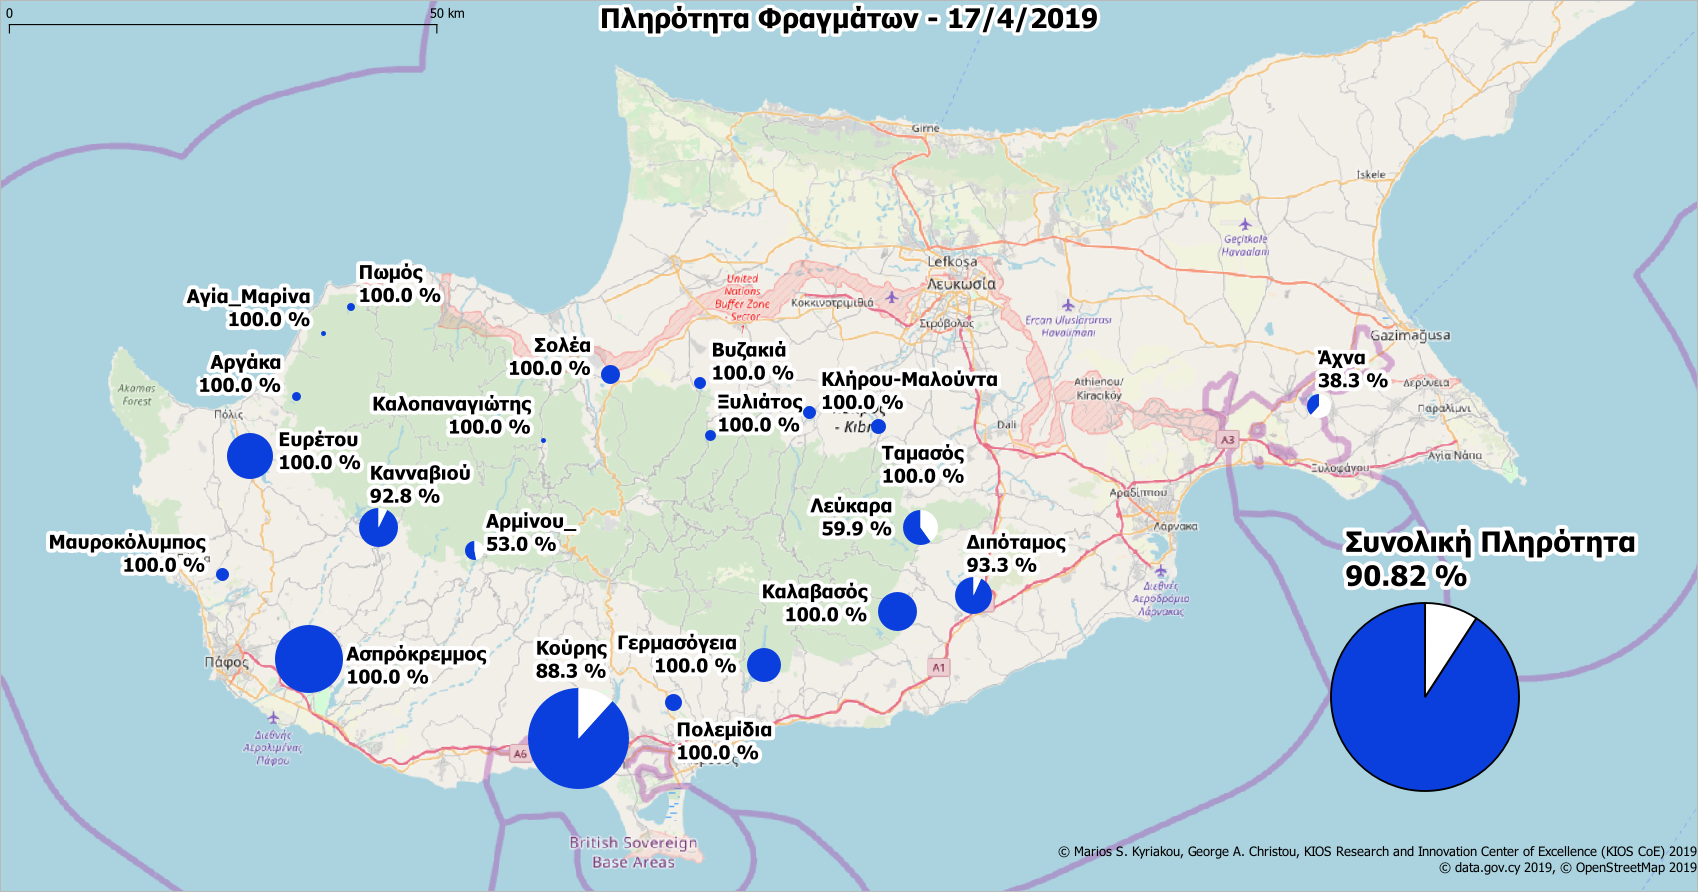
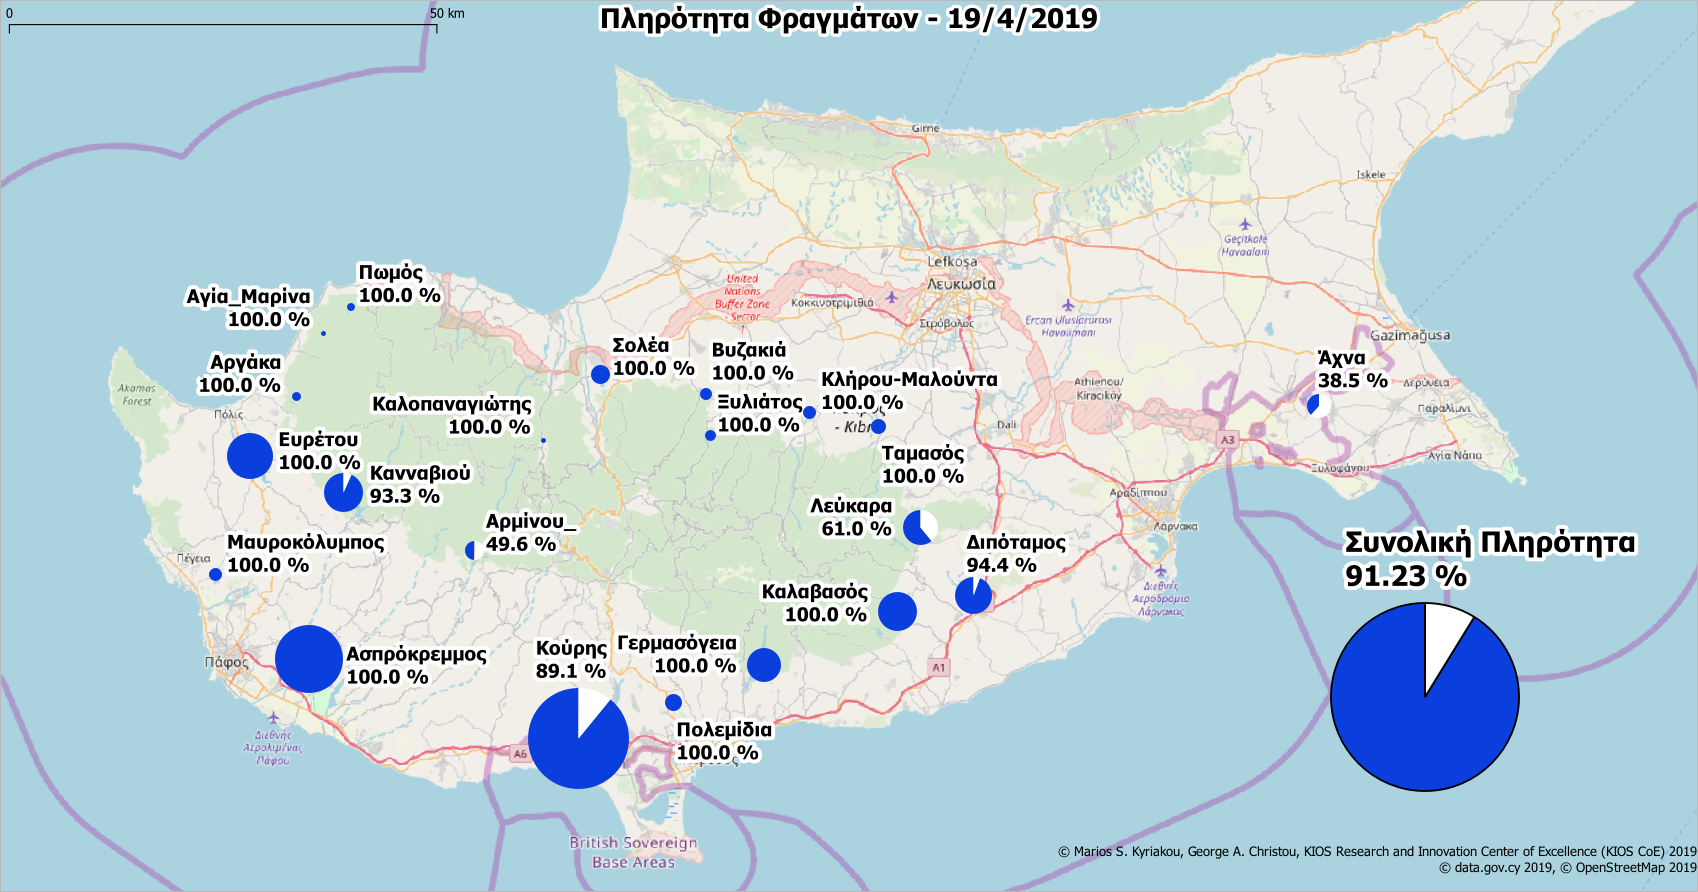
update

diff --git a/dams.html b/dams.html
@@ -11,7 +11,7 @@
          1px  1px 7px WHITE;
     }
     }
-    </style><p><b>Ημερομηνία ανανέωσης δεδομένων: 17/4/2019<p><font color="#0000FF">Η συνολική πληρότητα στα φράγματα είναι 90.82%</font>.<p>Υπάρχουν συνολικά <font color="#0000FF">15</font> φράγματα με πληρότητα <font color="#0000FF">100%</font>.<p>Υπάρχουν <font color="#0000FF">20</font> φράγματα με πληρότητα πάνω από <font color="#0000FF">50%</font>.</b><p><b>Υπάρχουν δεδομένα για 21 φράγματα. Συνολικά υπάρχουν 108 φράγματα. <b><p><p><p>* Ε.Κ.Μ. - Εκατομμύρια Kυβικά  Mέτρα.<table width="444">
+    </style><p><b>Ημερομηνία ανανέωσης δεδομένων: 19/4/2019<p><font color="#0000FF">Η συνολική πληρότητα στα φράγματα είναι 91.23%</font>.<p>Υπάρχουν συνολικά <font color="#0000FF">15</font> φράγματα με πληρότητα <font color="#0000FF">100%</font>.<p>Υπάρχουν <font color="#0000FF">19</font> φράγματα με πληρότητα πάνω από <font color="#0000FF">50%</font>.</b><p><b>Υπάρχουν δεδομένα για 21 φράγματα. Συνολικά υπάρχουν 108 φράγματα. <b><p><p><p>* Ε.Κ.Μ. - Εκατομμύρια Kυβικά  Mέτρα.<table width="444">
     <tbody>
     <tr>
     <th width="2"><b></b></th>
@@ -19,7 +19,7 @@
     <th width="60"><b>Χωρητικότητα (Ε.Κ.Μ.)</b></th>
     <th width="60"><b>Σημερινή (Ε.Κ.Μ.)</b></th>
     <th width="60"><b> Σημερινή Πληρότητα (%)</b></th>
-    </tr><tr><td bgcolor=#48AC4E class=border-white>1</td><td bgcolor=#48AC4E class=border-white>Κούρης</td><td bgcolor=#48AC4E class=border-white>115.0</td><td bgcolor=#48AC4E class=border-white>101.497</td><td bgcolor=#48AC4E class=border-white>88.3</td></tr><tr><tr><td bgcolor=#1A9641 class=border-white>2</td><td bgcolor=#1A9641 class=border-white>Ασπρόκρεμμος</td><td bgcolor=#1A9641 class=border-white>52.375</td><td bgcolor=#1A9641 class=border-white>52.375</td><td bgcolor=#1A9641 class=border-white>100.0</td></tr><tr><tr><td bgcolor=#1A9641 class=border-white>3</td><td bgcolor=#1A9641 class=border-white>Ευρέτου</td><td bgcolor=#1A9641 class=border-white>24.0</td><td bgcolor=#1A9641 class=border-white>24.0</td><td bgcolor=#1A9641 class=border-white>100.0</td></tr><tr><tr><td bgcolor=#1A9641 class=border-white>4</td><td bgcolor=#1A9641 class=border-white>Κανναβιού</td><td bgcolor=#1A9641 class=border-white>17.168</td><td bgcolor=#1A9641 class=border-white>15.94</td><td bgcolor=#1A9641 class=border-white>92.8</td></tr><tr><tr><td bgcolor=#1A9641 class=border-white>5</td><td bgcolor=#1A9641 class=border-white>Καλαβασός</td><td bgcolor=#1A9641 class=border-white>17.1</td><td bgcolor=#1A9641 class=border-white>17.1</td><td bgcolor=#1A9641 class=border-white>100.0</td></tr><tr><tr><td bgcolor=#1A9641 class=border-white>6</td><td bgcolor=#1A9641 class=border-white>Διπόταμος</td><td bgcolor=#1A9641 class=border-white>15.5</td><td bgcolor=#1A9641 class=border-white>14.465</td><td bgcolor=#1A9641 class=border-white>93.3</td></tr><tr><tr><td bgcolor=#D2EC95 class=border-white>7</td><td bgcolor=#D2EC95 class=border-white>Λεύκαρα</td><td bgcolor=#D2EC95 class=border-white>13.85</td><td bgcolor=#D2EC95 class=border-white>8.302</td><td bgcolor=#D2EC95 class=border-white>59.9</td></tr><tr><tr><td bgcolor=#1A9641 class=border-white>8</td><td bgcolor=#1A9641 class=border-white>Γερμασόγεια</td><td bgcolor=#1A9641 class=border-white>13.5</td><td bgcolor=#1A9641 class=border-white>13.5</td><td bgcolor=#1A9641 class=border-white>100.0</td></tr><tr><tr><td bgcolor=#FED690 class=border-white>9</td><td bgcolor=#FED690 class=border-white>Άχνα</td><td bgcolor=#FED690 class=border-white>6.8</td><td bgcolor=#FED690 class=border-white>2.603</td><td bgcolor=#FED690 class=border-white>38.3</td></tr><tr><tr><td bgcolor=#1A9641 class=border-white>10</td><td bgcolor=#1A9641 class=border-white>Σολέα</td><td bgcolor=#1A9641 class=border-white>4.454</td><td bgcolor=#1A9641 class=border-white>4.454</td><td bgcolor=#1A9641 class=border-white>100.0</td></tr><tr><tr><td bgcolor=#D2EC95 class=border-white>11</td><td bgcolor=#D2EC95 class=border-white>Αρμίνου_</td><td bgcolor=#D2EC95 class=border-white>4.3</td><td bgcolor=#D2EC95 class=border-white>2.277</td><td bgcolor=#D2EC95 class=border-white>53.0</td></tr><tr><tr><td bgcolor=#1A9641 class=border-white>12</td><td bgcolor=#1A9641 class=border-white>Πολεμίδια</td><td bgcolor=#1A9641 class=border-white>3.4</td><td bgcolor=#1A9641 class=border-white>3.4</td><td bgcolor=#1A9641 class=border-white>100.0</td></tr><tr><tr><td bgcolor=#1A9641 class=border-white>13</td><td bgcolor=#1A9641 class=border-white>Ταμασός</td><td bgcolor=#1A9641 class=border-white>2.8</td><td bgcolor=#1A9641 class=border-white>2.8</td><td bgcolor=#1A9641 class=border-white>100.0</td></tr><tr><tr><td bgcolor=#1A9641 class=border-white>14</td><td bgcolor=#1A9641 class=border-white>Μαυροκόλυμπος</td><td bgcolor=#1A9641 class=border-white>2.18</td><td bgcolor=#1A9641 class=border-white>2.18</td><td bgcolor=#1A9641 class=border-white>100.0</td></tr><tr><tr><td bgcolor=#1A9641 class=border-white>15</td><td bgcolor=#1A9641 class=border-white>Κλήρου-Μαλούντα</td><td bgcolor=#1A9641 class=border-white>2.0</td><td bgcolor=#1A9641 class=border-white>2.0</td><td bgcolor=#1A9641 class=border-white>100.0</td></tr><tr><tr><td bgcolor=#1A9641 class=border-white>16</td><td bgcolor=#1A9641 class=border-white>Βυζακιά</td><td bgcolor=#1A9641 class=border-white>1.69</td><td bgcolor=#1A9641 class=border-white>1.69</td><td bgcolor=#1A9641 class=border-white>100.0</td></tr><tr><tr><td bgcolor=#1A9641 class=border-white>17</td><td bgcolor=#1A9641 class=border-white>Ξυλιάτος</td><td bgcolor=#1A9641 class=border-white>1.43</td><td bgcolor=#1A9641 class=border-white>1.43</td><td bgcolor=#1A9641 class=border-white>100.0</td></tr><tr><tr><td bgcolor=#1A9641 class=border-white>18</td><td bgcolor=#1A9641 class=border-white>Αργάκα</td><td bgcolor=#1A9641 class=border-white>0.99</td><td bgcolor=#1A9641 class=border-white>0.99</td><td bgcolor=#1A9641 class=border-white>100.0</td></tr><tr><tr><td bgcolor=#1A9641 class=border-white>19</td><td bgcolor=#1A9641 class=border-white>Πωμός</td><td bgcolor=#1A9641 class=border-white>0.86</td><td bgcolor=#1A9641 class=border-white>0.86</td><td bgcolor=#1A9641 class=border-white>100.0</td></tr><tr><tr><td bgcolor=#1A9641 class=border-white>20</td><td bgcolor=#1A9641 class=border-white>Καλοπαναγιώτης</td><td bgcolor=#1A9641 class=border-white>0.363</td><td bgcolor=#1A9641 class=border-white>0.363</td><td bgcolor=#1A9641 class=border-white>100.0</td></tr><tr><tr><td bgcolor=#1A9641 class=border-white>21</td><td bgcolor=#1A9641 class=border-white>Αγία_Μαρίνα</td><td bgcolor=#1A9641 class=border-white>0.298</td><td bgcolor=#1A9641 class=border-white>0.298</td><td bgcolor=#1A9641 class=border-white>100.0</td></tr><tr>
+    </tr><tr><td bgcolor=#48AC4E class=border-white>1</td><td bgcolor=#48AC4E class=border-white>Κούρης</td><td bgcolor=#48AC4E class=border-white>115.0</td><td bgcolor=#48AC4E class=border-white>102.452</td><td bgcolor=#48AC4E class=border-white>89.1</td></tr><tr><tr><td bgcolor=#1A9641 class=border-white>2</td><td bgcolor=#1A9641 class=border-white>Ασπρόκρεμμος</td><td bgcolor=#1A9641 class=border-white>52.375</td><td bgcolor=#1A9641 class=border-white>52.375</td><td bgcolor=#1A9641 class=border-white>100.0</td></tr><tr><tr><td bgcolor=#1A9641 class=border-white>3</td><td bgcolor=#1A9641 class=border-white>Ευρέτου</td><td bgcolor=#1A9641 class=border-white>24.0</td><td bgcolor=#1A9641 class=border-white>24.0</td><td bgcolor=#1A9641 class=border-white>100.0</td></tr><tr><tr><td bgcolor=#1A9641 class=border-white>4</td><td bgcolor=#1A9641 class=border-white>Κανναβιού</td><td bgcolor=#1A9641 class=border-white>17.168</td><td bgcolor=#1A9641 class=border-white>16.019</td><td bgcolor=#1A9641 class=border-white>93.3</td></tr><tr><tr><td bgcolor=#1A9641 class=border-white>5</td><td bgcolor=#1A9641 class=border-white>Καλαβασός</td><td bgcolor=#1A9641 class=border-white>17.1</td><td bgcolor=#1A9641 class=border-white>17.1</td><td bgcolor=#1A9641 class=border-white>100.0</td></tr><tr><tr><td bgcolor=#1A9641 class=border-white>6</td><td bgcolor=#1A9641 class=border-white>Διπόταμος</td><td bgcolor=#1A9641 class=border-white>15.5</td><td bgcolor=#1A9641 class=border-white>14.629</td><td bgcolor=#1A9641 class=border-white>94.4</td></tr><tr><tr><td bgcolor=#A6D96A class=border-white>7</td><td bgcolor=#A6D96A class=border-white>Λεύκαρα</td><td bgcolor=#A6D96A class=border-white>13.85</td><td bgcolor=#A6D96A class=border-white>8.442</td><td bgcolor=#A6D96A class=border-white>61.0</td></tr><tr><tr><td bgcolor=#1A9641 class=border-white>8</td><td bgcolor=#1A9641 class=border-white>Γερμασόγεια</td><td bgcolor=#1A9641 class=border-white>13.5</td><td bgcolor=#1A9641 class=border-white>13.5</td><td bgcolor=#1A9641 class=border-white>100.0</td></tr><tr><tr><td bgcolor=#FED690 class=border-white>9</td><td bgcolor=#FED690 class=border-white>Άχνα</td><td bgcolor=#FED690 class=border-white>6.8</td><td bgcolor=#FED690 class=border-white>2.616</td><td bgcolor=#FED690 class=border-white>38.5</td></tr><tr><tr><td bgcolor=#1A9641 class=border-white>10</td><td bgcolor=#1A9641 class=border-white>Σολέα</td><td bgcolor=#1A9641 class=border-white>4.454</td><td bgcolor=#1A9641 class=border-white>4.454</td><td bgcolor=#1A9641 class=border-white>100.0</td></tr><tr><tr><td bgcolor=#FFFFC0 class=border-white>11</td><td bgcolor=#FFFFC0 class=border-white>Αρμίνου_</td><td bgcolor=#FFFFC0 class=border-white>4.3</td><td bgcolor=#FFFFC0 class=border-white>2.134</td><td bgcolor=#FFFFC0 class=border-white>49.6</td></tr><tr><tr><td bgcolor=#1A9641 class=border-white>12</td><td bgcolor=#1A9641 class=border-white>Πολεμίδια</td><td bgcolor=#1A9641 class=border-white>3.4</td><td bgcolor=#1A9641 class=border-white>3.4</td><td bgcolor=#1A9641 class=border-white>100.0</td></tr><tr><tr><td bgcolor=#1A9641 class=border-white>13</td><td bgcolor=#1A9641 class=border-white>Ταμασός</td><td bgcolor=#1A9641 class=border-white>2.8</td><td bgcolor=#1A9641 class=border-white>2.8</td><td bgcolor=#1A9641 class=border-white>100.0</td></tr><tr><tr><td bgcolor=#1A9641 class=border-white>14</td><td bgcolor=#1A9641 class=border-white>Μαυροκόλυμπος</td><td bgcolor=#1A9641 class=border-white>2.18</td><td bgcolor=#1A9641 class=border-white>2.18</td><td bgcolor=#1A9641 class=border-white>100.0</td></tr><tr><tr><td bgcolor=#1A9641 class=border-white>15</td><td bgcolor=#1A9641 class=border-white>Κλήρου-Μαλούντα</td><td bgcolor=#1A9641 class=border-white>2.0</td><td bgcolor=#1A9641 class=border-white>2.0</td><td bgcolor=#1A9641 class=border-white>100.0</td></tr><tr><tr><td bgcolor=#1A9641 class=border-white>16</td><td bgcolor=#1A9641 class=border-white>Βυζακιά</td><td bgcolor=#1A9641 class=border-white>1.69</td><td bgcolor=#1A9641 class=border-white>1.69</td><td bgcolor=#1A9641 class=border-white>100.0</td></tr><tr><tr><td bgcolor=#1A9641 class=border-white>17</td><td bgcolor=#1A9641 class=border-white>Ξυλιάτος</td><td bgcolor=#1A9641 class=border-white>1.43</td><td bgcolor=#1A9641 class=border-white>1.43</td><td bgcolor=#1A9641 class=border-white>100.0</td></tr><tr><tr><td bgcolor=#1A9641 class=border-white>18</td><td bgcolor=#1A9641 class=border-white>Αργάκα</td><td bgcolor=#1A9641 class=border-white>0.99</td><td bgcolor=#1A9641 class=border-white>0.99</td><td bgcolor=#1A9641 class=border-white>100.0</td></tr><tr><tr><td bgcolor=#1A9641 class=border-white>19</td><td bgcolor=#1A9641 class=border-white>Πωμός</td><td bgcolor=#1A9641 class=border-white>0.86</td><td bgcolor=#1A9641 class=border-white>0.86</td><td bgcolor=#1A9641 class=border-white>100.0</td></tr><tr><tr><td bgcolor=#1A9641 class=border-white>20</td><td bgcolor=#1A9641 class=border-white>Καλοπαναγιώτης</td><td bgcolor=#1A9641 class=border-white>0.363</td><td bgcolor=#1A9641 class=border-white>0.363</td><td bgcolor=#1A9641 class=border-white>100.0</td></tr><tr><tr><td bgcolor=#1A9641 class=border-white>21</td><td bgcolor=#1A9641 class=border-white>Αγία_Μαρίνα</td><td bgcolor=#1A9641 class=border-white>0.298</td><td bgcolor=#1A9641 class=border-white>0.298</td><td bgcolor=#1A9641 class=border-white>100.0</td></tr><tr>
     </tr>
     <tr>
     <td></td>
